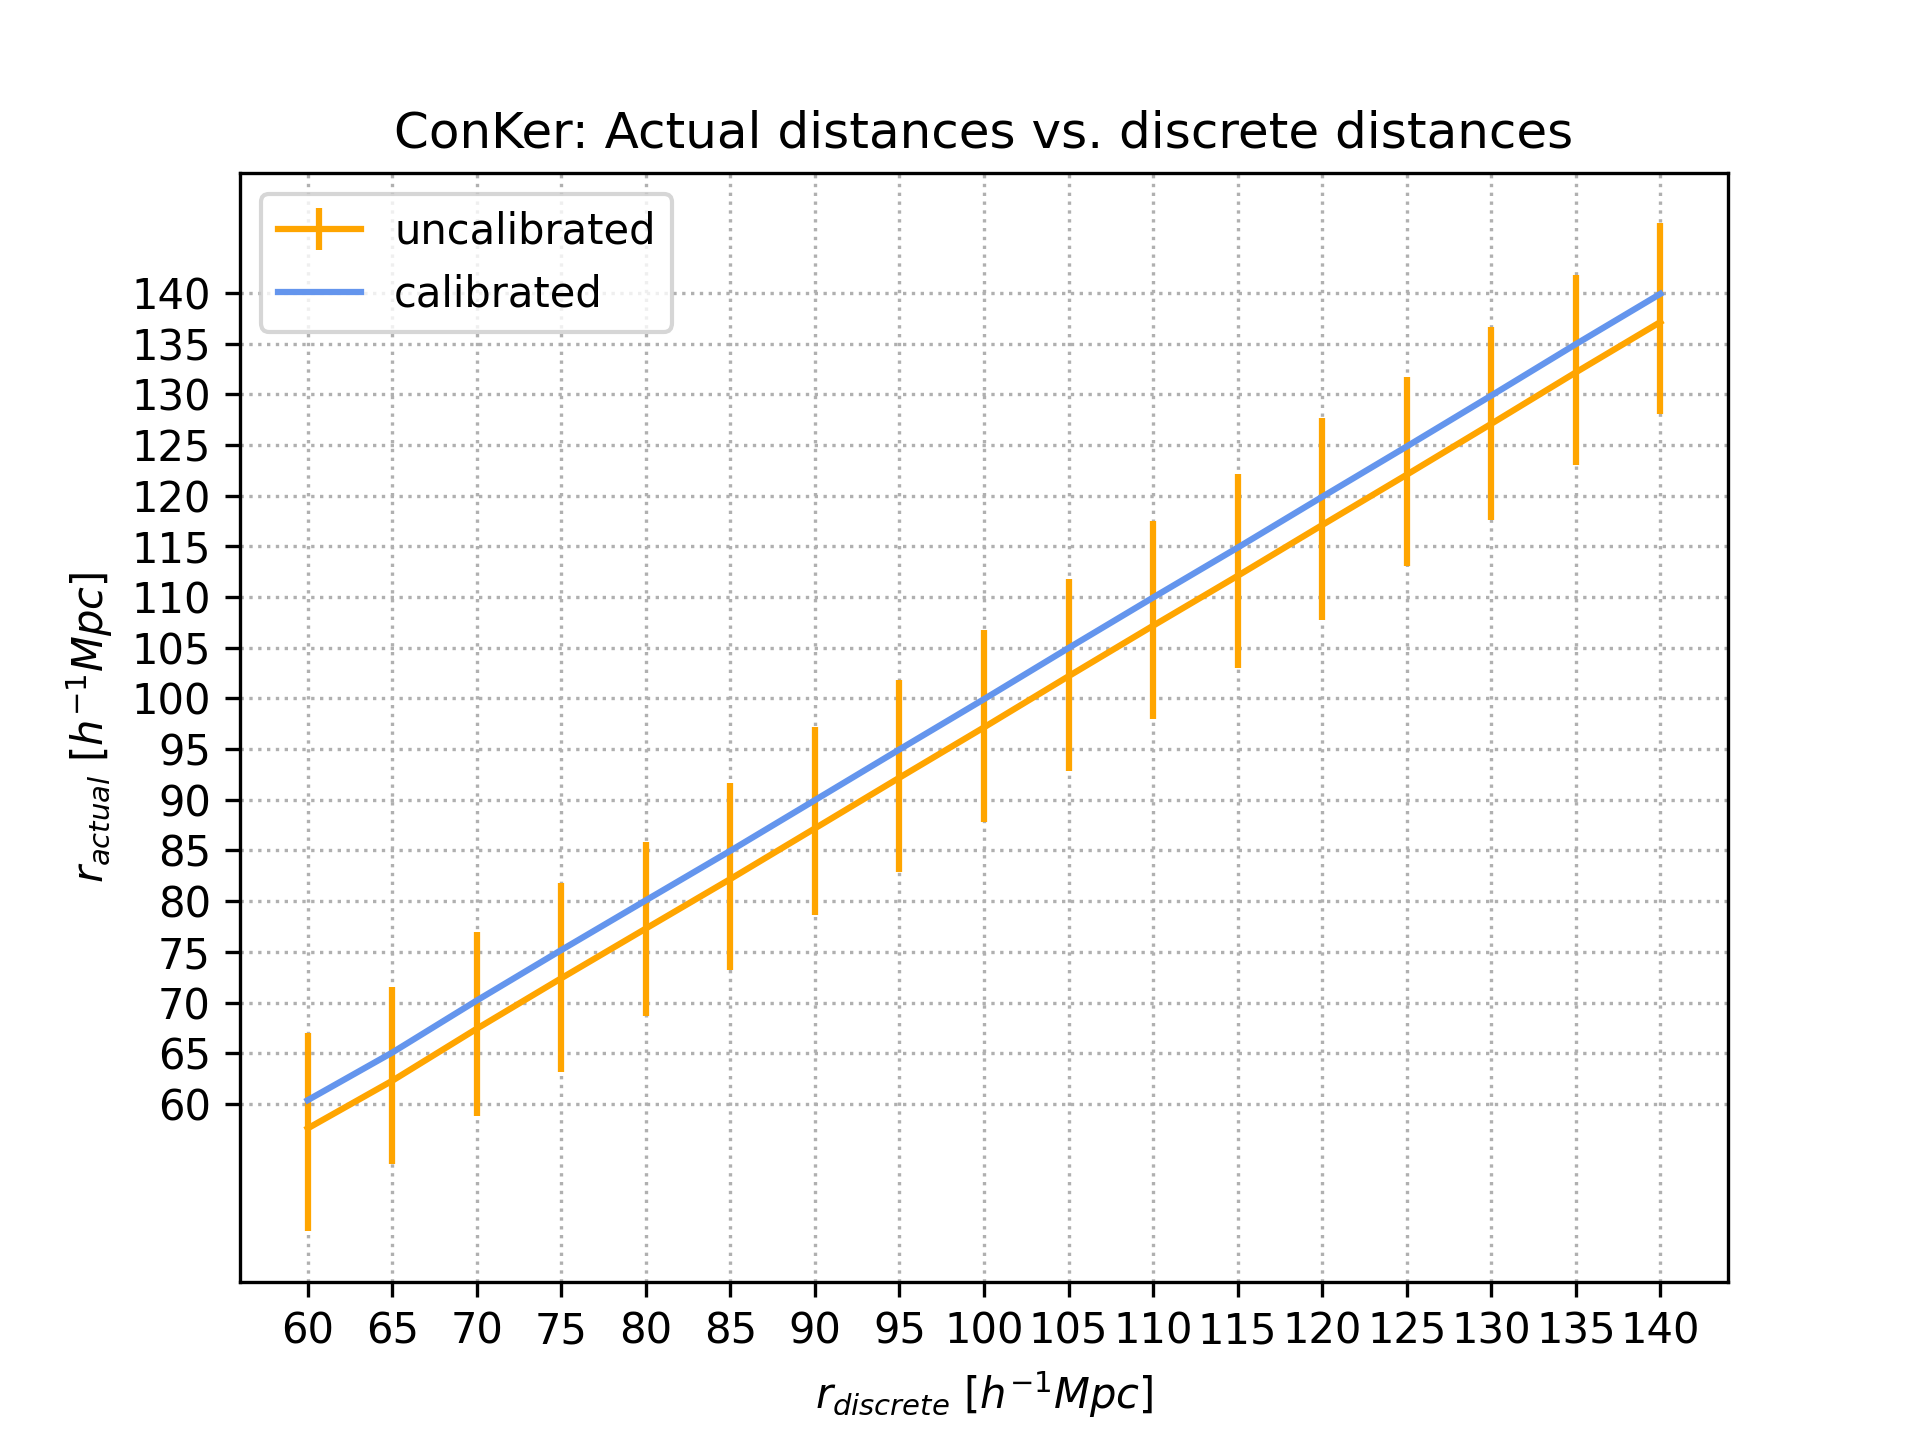
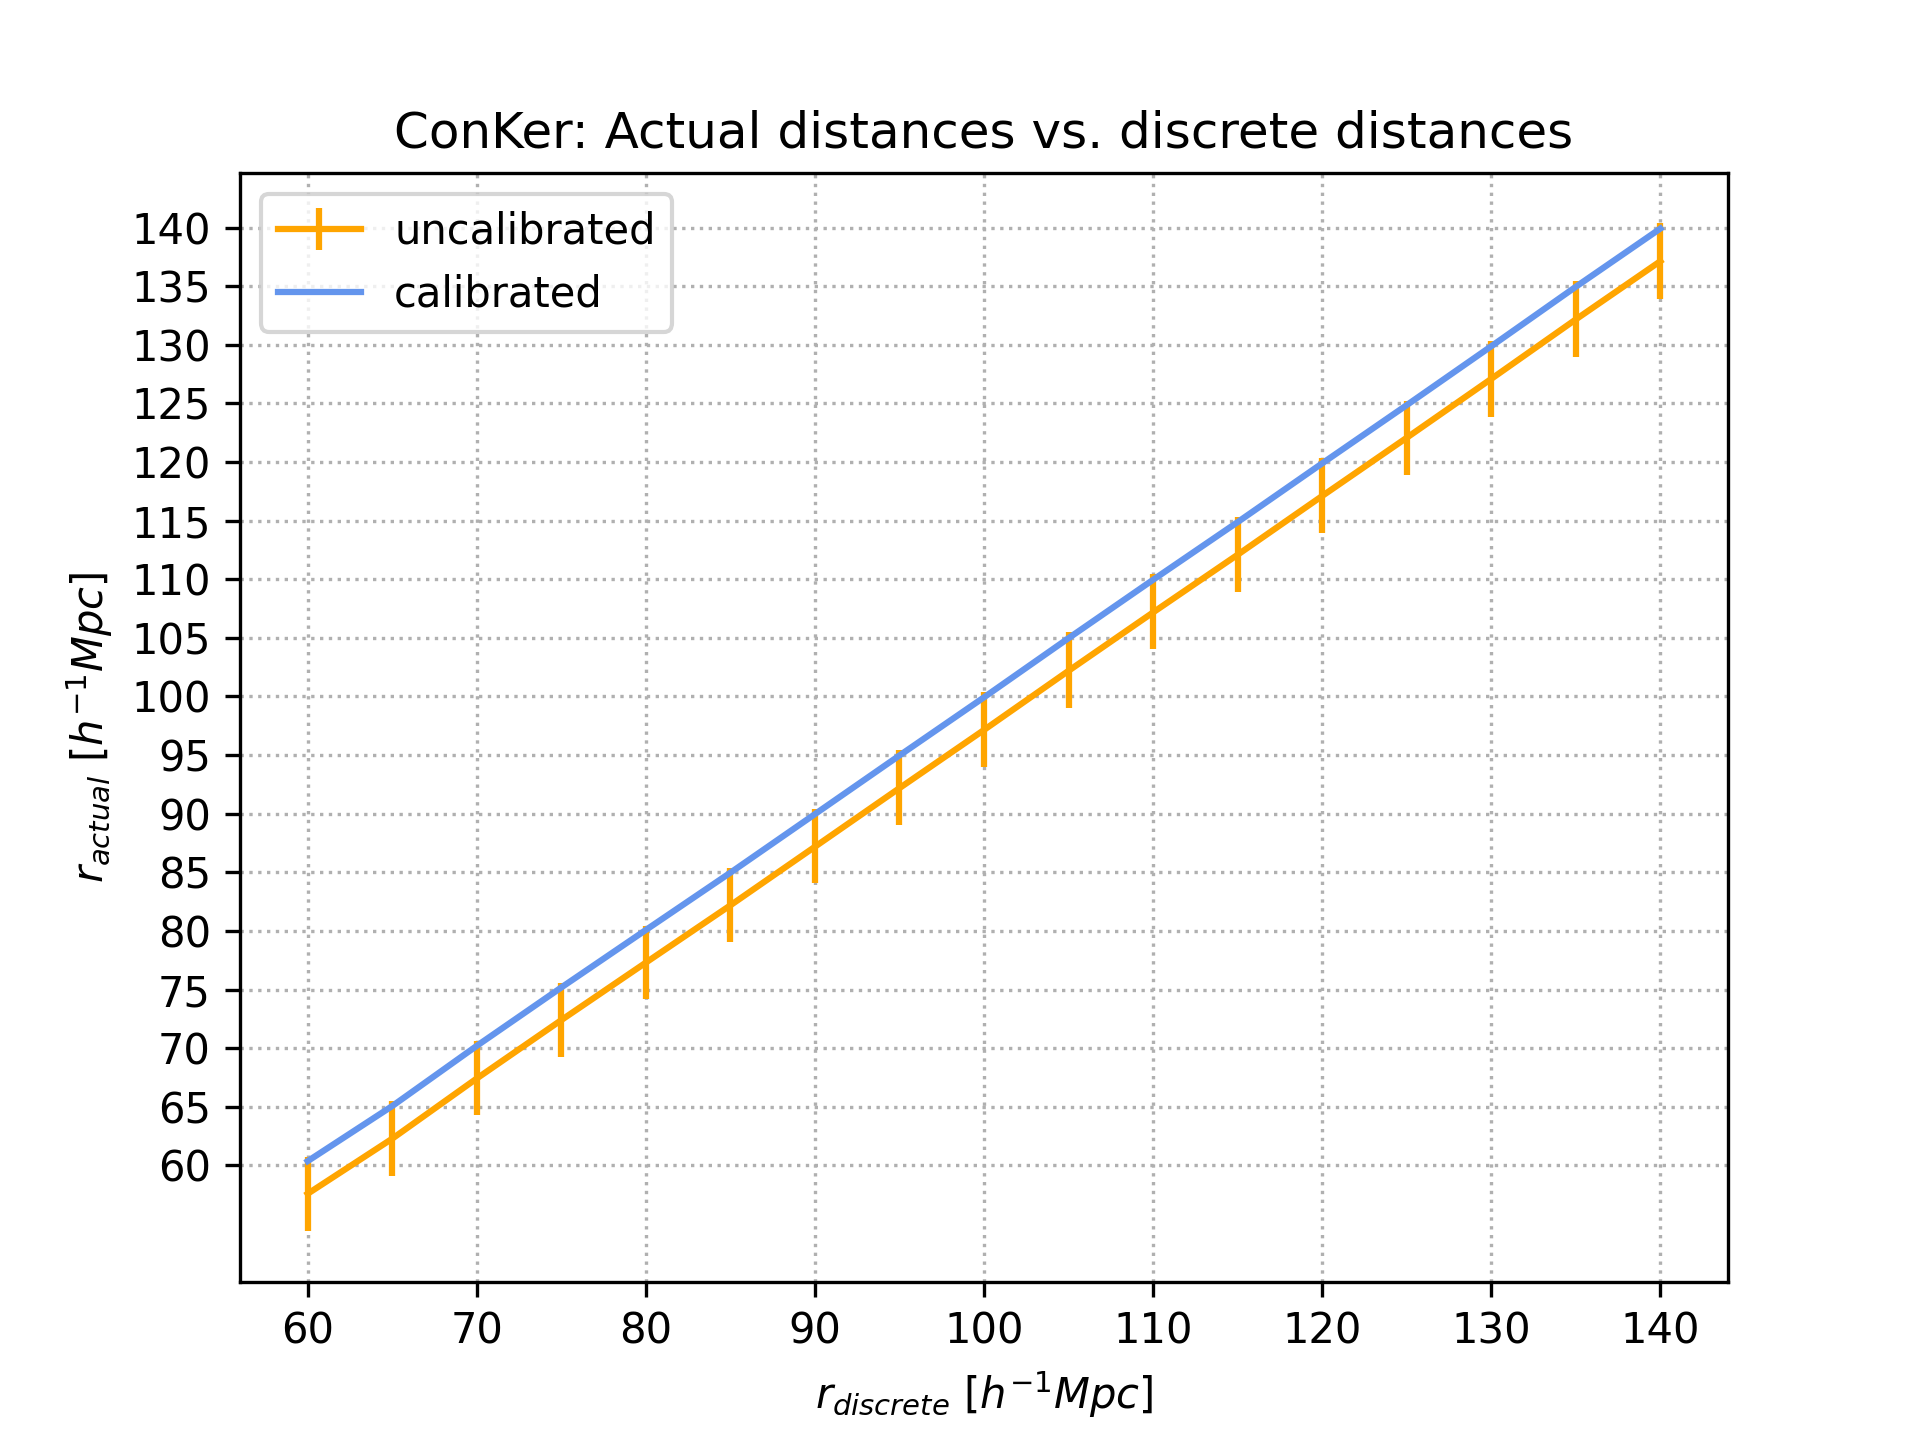
Integrated calibration feature with core conker functionality

diff --git a/src/correlator.py b/src/correlator.py
@@ -65,6 +65,12 @@ class Correlator:
 		if noniso:
 			self.type_spatial = 'noniso'
 
+		# default calibration reference
+		# this just serves as a default
+		# and may be overridden in load_calib()
+		self.calibfile = 'calib_ref_random0_DR12v5_CMASS_South_gs_5.npy'
+		self.calib: float = None
+
 		# # correlation order has to match radii given
 		# assert order == len(r1_list) + 1
 		# self.r1_list = r1_list
@@ -130,8 +136,8 @@ class Correlator:
 			self.randoms_grid = self.cfR.get_randoms_grid()\
 								* data2rand_ratio
 			if self.save_randoms:
-				np.save(self.savename + 'randoms_grid_gs_{}_fR_{}.npy'\
-					.format(self.cf0.grid_spacing, remove_ext(self.fileR)), 
+				np.save(self.savename + 'gridR_{}_gs_{}.npy'\
+					.format(remove_ext(self.fileR), self.cf0.grid_spacing), 
 					self.randoms_grid)
 
 
@@ -286,23 +292,25 @@ class Correlator:
 		s = self.cf1.kernel_radius
 		self.corrfunc = {s: None}
 		W, B = self._correlate()
-		self.corrfunc[s] = W / B
+		self.corrfunc[s - self.calib] = W / B
 		self.save_single()
 
 
-	def _save_scan(self):
+	def _save_scan(self, scan_args):
+		losep, hisep = scan_args
 		separation = list(self.corrfunc.keys())
 		correlation = list(self.corrfunc.values())
 		if self.printout:
 			print('Separation array:\n', separation)
 			print('Correlation array:\n', correlation)
 		np.save(self.savename + '{}pcf_sep_range_{}_{}.npy'\
-			.format(self.order, separation[0], separation[-1]), separation)
+			.format(self.order, losep, hisep), separation)
 		np.save(self.savename + '{}pcf_corr_range_{}_{}.npy'\
-			.format(self.order, separation[0], separation[-1]), correlation)
+			.format(self.order, losep, hisep), correlation)
 
 
-	def _save_plot(self):
+	def _save_plot(self, scan_args):
+		losep, hisep = scan_args
 		separation = list(self.corrfunc.keys())
 		correlation = list(self.corrfunc.values())
 		plt.plot(separation, correlation, 
@@ -336,7 +344,6 @@ class Correlator:
 	def scan_correlate(self, scan_args):
 		start, end = scan_args
 		step = self.cf1.grid_spacing
-		correction = 0.5 * step
 		steps = np.arange(start, end+step, step)
 		self.corrfunc = {}
 
@@ -344,14 +351,37 @@ class Correlator:
 			self.cf1.set_kernel_radius(s)
 			W, B = self._correlate()
 			# TODO: save W,B at each step
-			self.corrfunc[s - correction] = W / B
+			self.corrfunc[s - self.calib] = W / B
 
-		self._save_scan()
+		self._save_scan(scan_args)
 		if self.type_spatial == 'iso':
-			self._save_plot()
+			self._save_plot(scan_args)
 
 
+	def load_calib(self):
+		if self.printout:
+			print('Loading calibration data...')
 
+		try:
+			if self.fileR:
+				calibfile = 'calibration/' + 'calib_ref_{}_gs_{}.npy'\
+					.format(remove_ext(self.fileR), self.cf1.grid_spacing)
+			elif self.file_gridR:
+				# reconstructs expected calib filename from gridR filename
+				# changes expected file_gridR model: 'gridR_random0_DR12v5_CMASS_South_gs_5.npy'
+				# to make: 'calib_ref_random0_DR12v5_CMASS_South_gs_5.npy'
+				fname = '_'.join(self.file_gridR.split('_')[1:])
+				calibfile = 'calibration/calib_ref_' + fname				
+
+			self.calib = np.load(calibfile)
+			self.calibfile = calibfile # success
+			if self.printout:
+				print('Loaded CUSTOM calibration data from file:\n', self.calibfile)	
+
+		except:
+			self.calib = np.load(self.calibfile)
+			if self.printout:
+				print('Loaded DEFAULT calibration data from file:\n', self.calibfile)
 
 
 

diff --git a/calibrate.py b/calibrate.py
@@ -194,15 +194,18 @@ def main():
 		print('Calculating mean for calibration...')
 		actual_ds = np.array(actual_ds)
 		mean = np.mean(actual_ds)
-		rvsr[r] = (mean,min(actual_ds),max(actual_ds))
+		meanerrs = actual_ds - mean
+		lomeanerrs = meanerrs[meanerrs < 0]
+		himeanerrs = meanerrs[meanerrs >= 0]
+		loerr = sqrt(np.mean(lomeanerrs**2))
+		hierr = sqrt(np.mean(himeanerrs**2))
+		# rvsr[r] = (mean,min(actual_ds),max(actual_ds))
+		rvsr[r] = (mean, loerr, hierr)
 
 		print('Mean actual distance:', mean)
 		mean = np.array(mean)
 		filename = remove_ext(input_file)
-		np.save('{}calib_{}_gs_{}_r1_{}.npy'\
-			.format(outdir, filename, grid_spacing, r), 
-			mean)
-		np.save('{}calib_arr_{}_gs_{}_r1_{}.npy'\
+		np.save('{}calib_mean_{}_gs_{}_r1_{}.npy'\
 			.format(outdir, filename, grid_spacing, r), 
 			mean)
 
@@ -223,15 +226,16 @@ def main():
 	rs = np.array(list(rvsr.keys()))
 	vals = np.array(list(rvsr.values()))
 	means = vals[:,0]
-	loerrs = abs(vals[:,1] - means)
-	uperrs = abs(vals[:,2] - means)
-	meanerrs = np.mean(rs - means)
+	loerrs = vals[:,1]
+	uperrs = vals[:,2]
+	meanerr = np.round(np.mean(rs - means), 
+		decimals=rounding_precision)
 	np.save('{}calib_ref_{}_gs_{}.npy'\
 			.format(outdir, filename, grid_spacing), 
-			meanerrs)
+			meanerr)
 
 	plt.errorbar(rs, means, yerr=[loerrs,uperrs], label='uncalibrated', c='orange')
-	plt.errorbar(rs, means+meanerrs, label='calibrated', c='cornflowerblue')
+	plt.errorbar(rs, means+meanerr, label='calibrated', c='cornflowerblue')
 	plt.title('ConKer: Actual distances vs. discrete distances')
 	plt.xlabel(r'$r_{discrete}$ $[h^{-1}Mpc]$')
 	plt.ylabel(r'$r_{actual}$ $[h^{-1}Mpc]$')
@@ -245,7 +249,8 @@ def main():
 		dpi=300)
 	plt.close()
 
-	print('Mean error in separation between 2 points:', meanerrs)
+	print('Mean separation error to {} decimal places:'\
+		.format(rounding_precision), meanerr)
 	print('Calibration ended successfully...')
 
 

diff --git a/driver.py b/driver.py
@@ -91,6 +91,9 @@ def main():
 	# makes cf1 with randoms grid from cfR
 	corr.make_cf1(args)
 
+	# finds custom calib file or falls back to default
+	corr.load_calib()
+
 	# runs requested correlation and saves output
 	# scan command overrides single command
 	if args.scan:

diff --git a/README.md b/README.md
@@ -16,9 +16,14 @@ pip install -r requirements.txt
 ```
 
 ### Calibration
+For best binning results, please always run a calibration for any particular combination of randoms file, grid spacing and correlation scanning range: 
 ```
 python calibrate.py random0_DR12v5_CMASS_South.fits --scan 60 140
 ```
+
+Note that a Correlator will automatically search for and load the correct calibration file for the current run from the calibration folder. Changing calibration filenames manually will result in undefined behavior when a Correlator goes to read them.
+
+If Correlator cannot open an existing calibration file, then it will default to calibration file "calib_ref_random0_DR12v5_CMASS_South_gs_5.npy" that comes with this repo.
 
 ### Help
 Get all available cmd line arguments with explanations:
@@ -44,7 +49,7 @@ python driver.py filename1.fits
 ```
 Optional argument for specifying a pre-made randoms grid. Putting this argument requests that the randoms grid be loaded from the 'data' folder and used as is. This randoms grid has to have been made from the same catalog as the input catalog and its grid spacing must be the same as the one in the parameters file for current run. Undefined behavior if otherwise.
 ```
---randoms_grid filename_gridR_gs_5.npy
+--randoms_grid gridR_filenameR_gs_5.npy
 ```
 
 ### Outputs
@@ -63,18 +68,18 @@ Run a second-order auto-correlation on filename1 using randoms from filenameR, d
 python driver.py filename1.fits --randoms_file filenameR.fits
 ```
 
-Run iso 2pcf scan at K0 radius = 10 Mpch-1 and K1 radius from 70 (incusive) to 140 (exclusive) Mpch-1 in steps of grid_spacing, with progress logs on std out (-v), and saves all intermediate grids to output folders:
+Run isotropic 2pcf scan at K0 radius = 5 Mpch-1 and K1 radius from 60 (incusive) to 145 (exclusive) Mpch-1 in steps of grid_spacing, with progress logs on std out (-v), and saves all intermediate grids to output folders:
 ```
-python driver.py filename1.fits --randoms_file filenameR.fits -r0 10 --scan 70 140 -v -s
-```
-
-Run iso 3pcf scan at K0 radius = 10 Mpch-1 and K1 radius from 70 (incusive) to 140 (exclusive) Mpch-1 in steps of grid_spacing, saves just the resulting correlation and separation arrays in the output folder:
-```
-python driver.py filename1.fits --randoms_file filenameR.fits -v -r0 10 --scan 70 140 -n 3
+python driver.py filename1.fits --randoms_file filenameR.fits -r0 5 --scan 60 145 -v -s
 ```
 
-Run single 2pcf calculation at K1 radius = 110 and K0 radius = 10:
+Run isotropic 3pcf scan at K0 radius = 5 Mpch-1 and K1 radius from 60 (incusive) to 145 (exclusive) Mpch-1 in steps of grid_spacing, saves just the resulting correlation and separation arrays in the output folder:
 ```
-python driver.py mock_cmassDR9_north_3001.fits -v -r0 10 -r1 110
+python driver.py filename1.fits --randoms_file filenameR.fits -v -r0 5 --scan 60 145 -n 3
+```
+
+Run single 2pcf calculation at K1 radius = 110 and K0 radius = 5:
+```
+python driver.py mock_cmassDR9_north_3001.fits -v -r0 5 -r1 110
 ```
 
